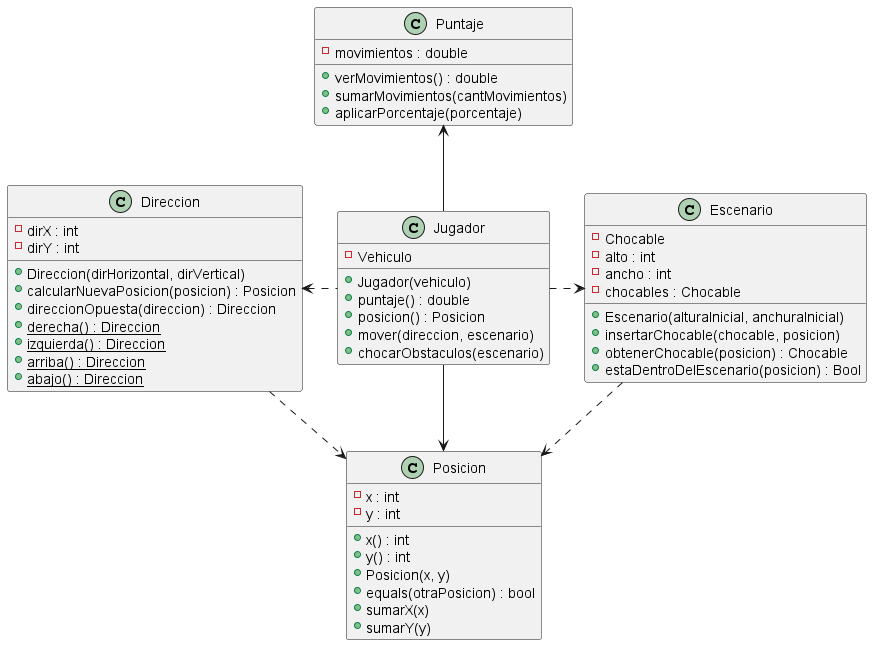
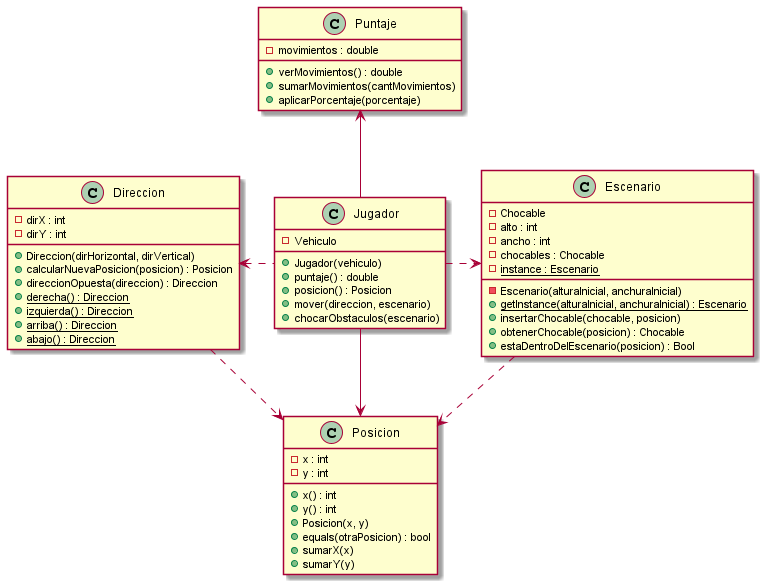
convierto Escenario a Singleton - parte 1

diff --git a/src/main/test/edu/fiuba/algo3/casos/CasosTest.java b/src/main/test/edu/fiuba/algo3/casos/CasosTest.java
@@ -19,7 +19,7 @@ public class CasosTest {
     @Test
     public void test01_motoChocaPozoYEsPenalizadaConTresMovimientos()
     {
-        Escenario escenario = new Escenario(20, 20);
+        Escenario escenario = Escenario.getInstance(20, 20);
         Vehiculo moto = new Moto();
         Jugador jugador = new Jugador(moto);
         Chocable pozo = new Pozo();
@@ -31,41 +31,13 @@ public class CasosTest {
         assertEquals(4, jugador.puntaje());
     }
 
-
-
-
-    // IDEAS PARA IMPLEMENTAR POSICION
-
-        // Escenario escenario = new Escenario();
-        // Chocable pozo1 = new Pozo(); 
-        // Chocable pozo2 = new Pozo(); 
-        // Chocable piquete1 = new Piquete(); 
-
-        // Escenario.insertarChocables([pozo1, pozo2, piquete1])
-        // // posiciones: 2,3 - 6,5 - 0,4
-
-        // if vehiculo.choco(pozo1):
-        //     hacer algo
-        
-        // class vehiculo {
-        //     bool choco(chocable) {
-        //         this.posicion.equals(chocable.posicion())
-        //     }
-        // }
-
-        // for i in range(5):
-        //     escenario.insertarchocables(new Pozo())
-        
-        // for i in range(6):
-        //     escenario.insertarchocables(new Piquete())
-
-
+    
 
     
     @Test
     public void test02_autoChocaPozoYEsPenalizadoConTresMovimientos()
     {
-        Escenario escenario = new Escenario(20, 20);
+        Escenario escenario = Escenario.getInstance(20, 20);
         Vehiculo auto = new Auto();
         Jugador jugador = new Jugador(auto);
         Chocable pozo = new Pozo();
@@ -83,7 +55,7 @@ public class CasosTest {
     @Test
     public void test03_todoterrenoChocaPozoYNoEsPenalizado()
     {
-        Escenario escenario = new Escenario(20, 20);
+        Escenario escenario = Escenario.getInstance(20, 20);
         Vehiculo todoterreno = new Todoterreno();
         Jugador jugador = new Jugador(todoterreno);
         Chocable pozo = new Pozo();
@@ -101,7 +73,7 @@ public class CasosTest {
     @Test
     public void test04_motoChocaConPiqueteYEsPenalizadoConDosMovimientos()
     {
-        Escenario escenario = new Escenario(20, 20);
+        Escenario escenario = Escenario.getInstance(20, 20);
         Vehiculo moto = new Moto();
         Jugador jugador = new Jugador(moto);
         Chocable piquete = new Piquete();
@@ -119,7 +91,7 @@ public class CasosTest {
     @Test
     public void test05_todoterrenoChocaConTresPozosYEsPenalizadoConDosMovimientos()
     {
-        Escenario escenario = new Escenario(20, 20);
+        Escenario escenario = Escenario.getInstance(20, 20);
         Vehiculo todoterreno = new Todoterreno();
         Jugador jugador = new Jugador(todoterreno);
         Chocable pozo = new Pozo();
@@ -143,7 +115,7 @@ public class CasosTest {
     @Test
     public void test06_UnVehiculoAtraviesaLaCiudadYEncuentraUnaSorpresaFavorable()
     {
-        Escenario escenario = new Escenario(20, 20);
+        Escenario escenario = Escenario.getInstance(20, 20);
         Vehiculo moto = new Moto();
         Jugador jugador = new Jugador(moto);
         Chocable sorpresaFavorable = new SorpresaFavorable();
@@ -161,7 +133,7 @@ public class CasosTest {
     @Test
     public void test07_UnVehiculoAtraviesaLaCiudadYEncuentraUnaSorpresaDesfavorable()
     {
-        Escenario escenario = new Escenario(20, 20);
+        Escenario escenario = Escenario.getInstance(20, 20);
         Vehiculo moto = new Moto();
         Jugador jugador = new Jugador(moto);
         Chocable sorpresaDesfavorable = new SorpresaDesfavorable();
@@ -177,7 +149,7 @@ public class CasosTest {
     @Test
     public void test08_UnVehiculoAtraviesaLaCiudadYEncuentraUnaSorpresaCambioDeVehiculo() 
     {
-        Escenario escenario = new Escenario(20, 20);
+        Escenario escenario = Escenario.getInstance(20, 20);
         Vehiculo auto = new Auto();
         Jugador jugador = new Jugador(auto);
         Chocable sorpresaCambioVehiculo = new SorpresaCambioVehiculo();
@@ -197,7 +169,7 @@ public class CasosTest {
     @Test
     public void test09_UnVehiculoSeEncuentraConUnControlPolicialYPuedeRecibirPenalizacion()
     {
-        Escenario escenario = new Escenario(20, 20);
+        Escenario escenario = Escenario.getInstance(20, 20);
         Vehiculo moto = new Moto();
         Jugador jugador = new Jugador(moto);
         Chocable controlPolicial = new ControlPolicial();
@@ -215,7 +187,7 @@ public class CasosTest {
     @Test
     public void test10_UnTodoterrenoChocaConUnaSorpresaCambioDeVehiculoYLuegoChocaConUnPiquete()
     {
-        Escenario escenario = new Escenario(25, 25);
+        Escenario escenario = Escenario.getInstance(25, 25);
         Vehiculo todoterreno = new Todoterreno();
         Jugador jugador = new Jugador(todoterreno);
         Chocable sorpresaCambioVehiculo = new SorpresaCambioVehiculo();

diff --git a/src/main/test/edu/fiuba/algo3/unitarios/JugadorTest.java b/src/main/test/edu/fiuba/algo3/unitarios/JugadorTest.java
@@ -12,43 +12,29 @@ public class JugadorTest {
 
 
 
-    // @Test
-    // public void unJugadorInicializaCorrectamente() {
-    //     Posicion posicionInicial = new Posicion(1, 1);
-    //     IVehiculo vehiculoInicial = new Moto();
-    //     Jugador jugador = new Jugador(posicionInicial, vehiculoInicial);
-
-    //     assertEquals(jugador.puntaje(), 0);
-    // }
-
-
-
-
     @Test
     public void aplicarUnMovimientoAlJugadorCambiaSuPosicion()
     {
-        Posicion posicionInicial = new Posicion();
         Vehiculo vehiculoInicial = new Moto();
         Jugador jugador = new Jugador(vehiculoInicial);
-        Escenario escenario = new Escenario(10, 10);
+        Escenario escenario = Escenario.getInstance(10, 10);
 
         jugador.mover(Direccion.derecha(), escenario);
 
-        //assertEquals(jugador.posicion(), new Posicion(0, 1));
         assertEquals(new Posicion(2, 1), jugador.posicion());
     }
 
 
 
-    // Esta prueba en particular no deberia lanzar excepciones
+    
     @Test
     public void moverAlJugadorHaciaUnaPosicionInvalidaNoHaceNada()
     {
         Posicion posicionInicial = new Posicion(2,1);
         Vehiculo vehiculoInicial = new Moto();
         Jugador jugador = new Jugador(vehiculoInicial);
-        //Escenario escenario = new Escenario(10, 10);
-        Escenario escenario = new Escenario(0, 0);
+        //Escenario escenario = Escenario.getInstance(10, 10);
+        Escenario escenario = Escenario.getInstance(0, 0);
 
         jugador.mover(Direccion.derecha(), escenario);
 

diff --git a/src/main/test/edu/fiuba/algo3/unitarios/ControlPolicialTest.java b/src/main/test/edu/fiuba/algo3/unitarios/ControlPolicialTest.java
@@ -1,12 +1,10 @@
 package edu.fiuba.algo3.unitarios;
 
-import edu.fiuba.algo3.modelo.Chocables.Chocable;
 import edu.fiuba.algo3.modelo.Chocables.ControlPolicial;
 import edu.fiuba.algo3.modelo.Puntaje;
 import edu.fiuba.algo3.modelo.Vehiculos.Auto;
 import edu.fiuba.algo3.modelo.Vehiculos.Moto;
 import edu.fiuba.algo3.modelo.Vehiculos.Todoterreno;
-import edu.fiuba.algo3.modelo.Vehiculos.Vehiculo;
 import org.junit.jupiter.api.Test;
 
 import static org.junit.jupiter.api.Assertions.*;
@@ -15,6 +13,9 @@ import static org.mockito.Mockito.*;
 
 public class ControlPolicialTest {
 
+
+
+
     @Test
     public void laPenalizacionSeObtieneDeManeraRandomCorrectamente(){
         ControlPolicial control = new ControlPolicial();
@@ -22,6 +23,9 @@ public class ControlPolicialTest {
         assertTrue(control.esPenalizado(-1.0));
         assertFalse(control.esPenalizado(2));
     }
+
+
+
 
     @Test
     public void puedoObtenerLosPuntosDePenalizacionCorrectosPorCadaVehiculo(){
@@ -51,4 +55,8 @@ public class ControlPolicialTest {
         controlMock.aplicarPenalizacion(todoterreno, puntaje);
         assertEquals(9, puntaje.verMovimientos());
     }
+
+
+
+    
 }

diff --git a/src/main/java/edu/fiuba/algo3/modelo/Escenario.java b/src/main/java/edu/fiuba/algo3/modelo/Escenario.java
@@ -8,7 +8,9 @@ public class Escenario {
     private final int ancho;
     private final Chocable[][] chocables;
 
-    public Escenario(int alturaInicial, int anchuraInicial) 
+    private static Escenario instance;
+
+    private Escenario(int alturaInicial, int anchuraInicial) 
     throws TamañoDelEscenarioInvalido
     {
         if (alturaInicial < 0 || anchuraInicial < 0) {
@@ -23,6 +25,15 @@ public class Escenario {
                 chocables[i][j] = new Vacio();
             }
         }
+    }
+
+    public static Escenario getInstance(int alturaInicial, int anchuraInicial) 
+    throws TamañoDelEscenarioInvalido
+    {
+        if (instance == null) {
+            instance = new Escenario(alturaInicial, anchuraInicial);
+        }
+        return instance;
     }
 
     public boolean estaDentroDelEscenario(Posicion posicion) {

diff --git a/src/main/test/edu/fiuba/algo3/unitarios/EscenarioTests/EscenarioTest_02.java b/src/main/test/edu/fiuba/algo3/unitarios/EscenarioTests/EscenarioTest_02.java
@@ -1,0 +1,22 @@
+package edu.fiuba.algo3.unitarios.EscenarioTests;
+
+import edu.fiuba.algo3.modelo.Chocables.Pozo;
+import edu.fiuba.algo3.modelo.Escenario;
+import edu.fiuba.algo3.modelo.TamañoDelEscenarioInvalido;
+import edu.fiuba.algo3.modelo.Posicion;
+import org.junit.jupiter.api.Test;
+
+import static org.junit.jupiter.api.Assertions.*;
+
+public class EscenarioTest_02 {
+    @Test
+    public void noSePuedeColocarUnChocableFueraDeLosLimitesDelEscenario() 
+    throws TamañoDelEscenarioInvalido
+    {
+        Escenario escenario = Escenario.getInstance(10, 10);
+        Pozo pozo = new Pozo();
+
+        escenario.insertarChocable(pozo, new Posicion(11, 11));
+        assertNull(escenario.obtenerChocable(new Posicion(11, 11)));
+    }
+}

diff --git a/src/main/test/edu/fiuba/algo3/unitarios/EscenarioTests/EscenarioTest_04.java b/src/main/test/edu/fiuba/algo3/unitarios/EscenarioTests/EscenarioTest_04.java
@@ -1,0 +1,19 @@
+package edu.fiuba.algo3.unitarios.EscenarioTests;
+
+import edu.fiuba.algo3.modelo.Escenario;
+import edu.fiuba.algo3.modelo.Posicion;
+import org.junit.jupiter.api.Test;
+
+import static org.junit.jupiter.api.Assertions.*;
+
+public class EscenarioTest_04 {
+    @Test
+    public void SiChequeoUnElementoFueraDelEscenarioObtengoUnaRespuestaCorrecta(){
+        Escenario escenario = Escenario.getInstance(10,10);
+
+        assertFalse(escenario.estaDentroDelEscenario(new Posicion(11,5)));
+        assertFalse(escenario.estaDentroDelEscenario(new Posicion(-5,5)));
+        assertFalse(escenario.estaDentroDelEscenario(new Posicion(5, 11)));
+        assertFalse(escenario.estaDentroDelEscenario(new Posicion(5,-5)));
+    }
+}

diff --git a/src/main/test/edu/fiuba/algo3/unitarios/EscenarioTests/EscenarioTest_01.java b/src/main/test/edu/fiuba/algo3/unitarios/EscenarioTests/EscenarioTest_01.java
@@ -1,0 +1,19 @@
+package edu.fiuba.algo3.unitarios.EscenarioTests;
+
+import edu.fiuba.algo3.modelo.Escenario;
+import edu.fiuba.algo3.modelo.TamañoDelEscenarioInvalido;
+import org.junit.jupiter.api.Test;
+import org.junit.jupiter.api.function.Executable;
+
+import static org.junit.jupiter.api.Assertions.*;
+
+public class EscenarioTest_01 {
+    @Test
+    public void noSePuedeCrearUnEscenarioConUnTamanioInvalido() {
+        Executable tarea1 = () -> Escenario.getInstance(-5, 5);
+        assertThrows(TamañoDelEscenarioInvalido.class, tarea1);
+
+        Executable tarea2 = () -> Escenario.getInstance(5, -5);
+        assertThrows(TamañoDelEscenarioInvalido.class, tarea2);
+    }
+}

diff --git a/src/main/test/edu/fiuba/algo3/unitarios/EscenarioTests/EscenarioTest_03.java b/src/main/test/edu/fiuba/algo3/unitarios/EscenarioTests/EscenarioTest_03.java
@@ -1,0 +1,16 @@
+package edu.fiuba.algo3.unitarios.EscenarioTests;
+
+import edu.fiuba.algo3.modelo.Escenario;
+import edu.fiuba.algo3.modelo.Posicion;
+import org.junit.jupiter.api.Test;
+
+import static org.junit.jupiter.api.Assertions.*;
+
+public class EscenarioTest_03 {
+    @Test
+    public void noSePuedeObtenerUnChocableDeUnLugarFueraDeLosLimitesDelEscenario(){
+         Escenario escenario = Escenario.getInstance(10, 10);
+
+        assertNull(escenario.obtenerChocable(new Posicion(11, 11)));
+    }
+}
